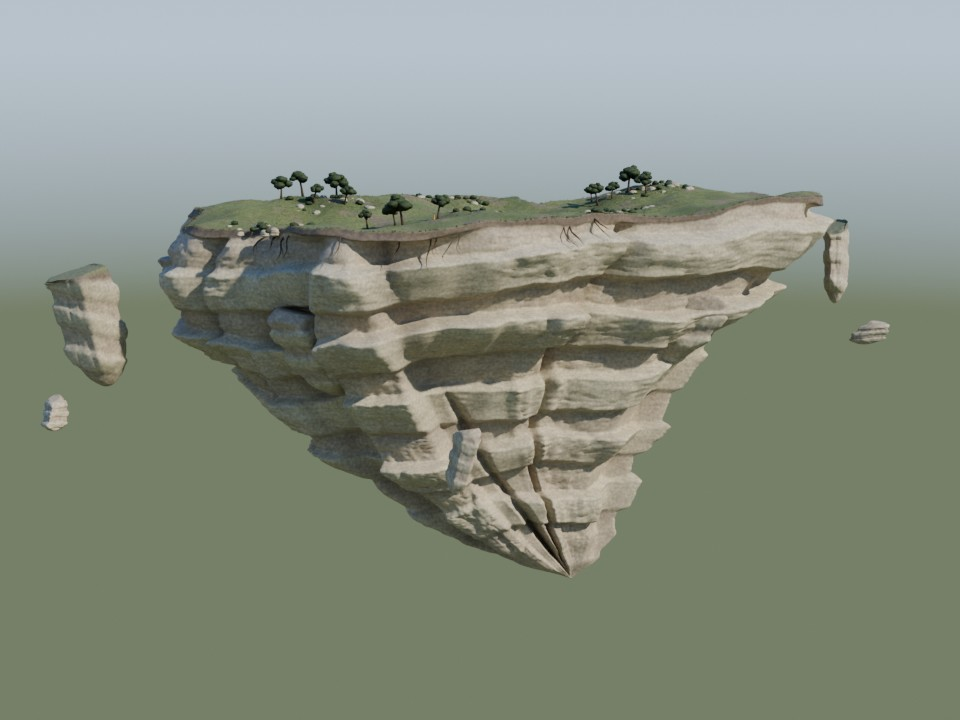
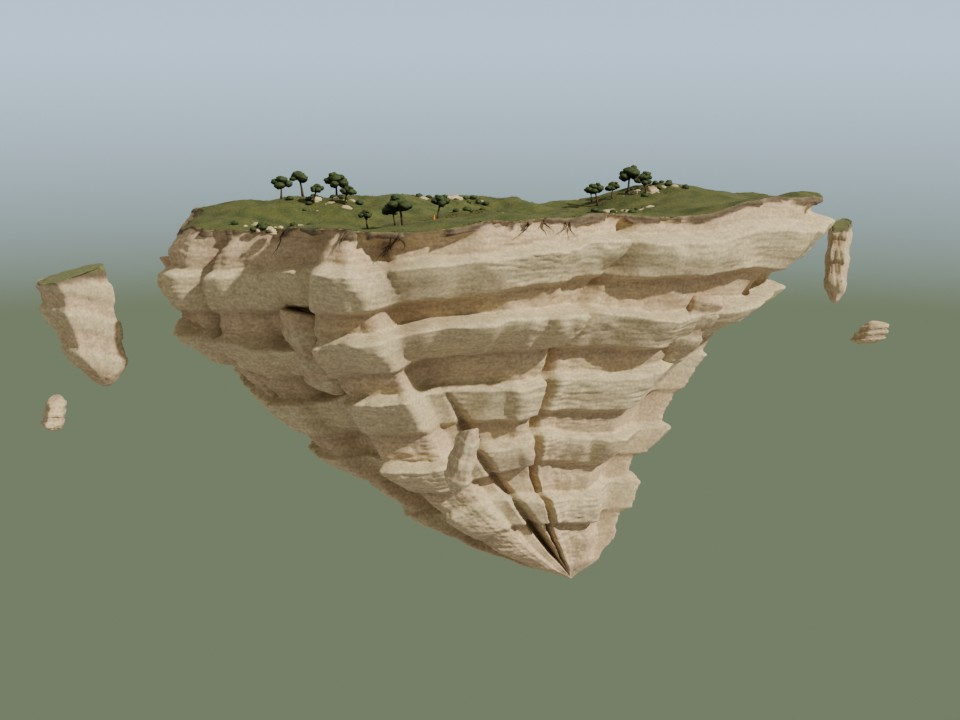
Refine island turf, exposed roots and limestone lighting

diff --git a/assets/sky/floating_island_a/build.py b/assets/sky/floating_island_a/build.py
@@ -12,6 +12,7 @@ SEED = 86347
 TOP, KEEL = 149, 0
 RX, RY = 125, 77
 N = 448
+FIGURE = (-36, -44)
 
 # Depth, width. The throat retreats under an overhang before the oblique keel.
 PROFILE = (
@@ -158,9 +159,10 @@ def summit(x, y):
 def bed_color(p, lith, cavity, x, y, z):
     patina = n3(x/14, y/13, z/16)
     veins = n3(x/3.7, y/3.7, z/.84)
-    limestone = mix(p["canyon_strata"], p["sandstone"], .22 + .19*patina)
-    dry = mix(limestone, p["canyon_chalk"], smooth(.36 + lith + .20*patina))
-    shaded = mix(p["canyon_strata"], p["soil"], .51)
+    limestone = mix(p["canyon_strata"], p["sandstone"], .47 + .13*patina)
+    ivory = mix(p["canyon_chalk"], p["path_sand"], .20)
+    dry = mix(limestone, ivory, smooth(.39 + lith + .16*patina))
+    shaded = mix(limestone, p["soil"], .51)
     tone = mix(dry, shaded, min(.74, cavity*.70))
     return tuple(v * (1 + .24 * veins) for v in tone)
 
@@ -175,6 +177,22 @@ def profile(t):
 
 def lip(q):
     return smooth((q+.07)/.22) * (1-.23*smooth((q-.35)/.56)) * (1-smooth((q-.91)/.18))
+
+
+def turf_scarps(ex, ey, a):
+    variations = .68*n3(ex/12, ey/9, 43) + .37*n3(ex/5, ey/5, 110) + .19*math.sin(17*a+.4)
+    gaps = smooth((n3(ex/4.5, ey/4, 38) - .085)*4.8 + .18*n3(ex/2.1, ey/2.1, 32))
+    depth = (.52 + 2.48*smooth(.49+variations)) * (1-.94*gaps)
+    return depth/(TOP-KEEL), gaps
+
+
+def weathering(x, y, z):
+    section = smooth(.5 + 1.15*n3(x/48, y/43, z/40))
+    broad = n3(x/17+.13*z, y/14, z/20+748)
+    torn = n3(x/3.9-156, y/2.8+.05*z, z/7.9)
+    grains = n3(x/1.4, y/1.4-72, z/1.9)
+    flakes = n3(x/3.3+78, y/5.3, z/1.07)
+    return .96*broad + (.05+1.07*section)*torn + (.04+.42*section)*grains + .61*(1-section)*flakes
 
 
 def face(p, edge, a, t):
@@ -206,19 +224,13 @@ def face(p, edge, a, t):
     for bearing, width, depth, lean in FAULTS:
         fault = angle_delta(a, bearing + .65*lean*t + .012*math.sin(21*t+bearing))
         groove += depth * max(0, 1-abs(fault)/(1.6*width)) * (.58+.42*smooth(.5+n3(t*5, bearing, 26)))
-    cells = voronoi_seam(x/16, y/15, z/34)
-    rifts = 1 - smooth(cells/.20)
-    wet = cavity + rifts*.18 + groove/19
+    wet = cavity + groove/19
     spur = 0
     for direction, level, weight, spread in ((-.62, .43, 9.8, .34), (1.34, .57, 15, .44),
                                              (2.86, .35, 11, .41), (-2.38, .72, 12, .48)):
         az = angle_delta(a, direction - .43*t)
         spur += .62*weight * math.exp(-(az/spread)**2 - ((t-level)/.188)**2)
-    displacement = ridge + spur - groove - .88*rifts
-    displacement += 1.4*n3(x/14, y/14, z/27) + .51*n3(x/5.5, y/5.5, z/6.8)
-    chips = voronoi_seam(x/4.4, y/4.1, z/5.9)
-    broken = smooth((.13-chips)/.13) * smooth(.62 + 1.6*n3(x/8, y/8, z/9))
-    displacement += .39*n3(x/2.1, y/2.1, z/2.1) + .16*n3(x*.89, y*.89, z*.89) - .53*broken
+    displacement = ridge + spur - groove + weathering(x, y, z)
     for bearing, reach, anchor, slope in ((-2.5, .24, .23, -.23), (-1.79, .24, .36, .19),
                                          (-.80, .27, .63, -.12), (.48, .20, .29, .34),
                                          (1.54, .26, .41, -.17), (2.52, .19, .67, .30)):
@@ -230,26 +242,30 @@ def face(p, edge, a, t):
             plane = u*(bx*ca+by*sa) + ridge - 6.9*math.exp(-((t-anchor)/.36)**2)
             cut = ((x-tx)*ca+(y-ty)*sa-plane)/math.cos(delta)
             displacement -= max(0, displacement+cut)*smooth((reach-abs(delta))/.070)
-    soil_depth = (.014 + .005*math.sin(8*a-.3) + .005*n3(ex/17, ey/17, 7))
-    soil = 1-smooth((t-soil_depth)/.005)
-    displacement = displacement*(1-soil) + (.7 + 2.1*n3(ex/18, ey/18, t*70))*soil
-    x += math.cos(a)*displacement*ramp
-    y += math.sin(a)*displacement*ramp
-    rock = bed_color(p, lith, wet+.25*broken, x, y, z)
-    earth = mix(p["bark"], p["soil"], .59 + .36*n3(x/2.6, y/2.6, z*1.8))
+    soil_depth, gaps = turf_scarps(ex, ey, a)
+    soil = (1-smooth((t-soil_depth)/.0035)) * (1-gaps)
+    tor = .51 + 1.03*n3(ex/8, ey/6, 884) + .72*n3(ex/1.8, ey/1.8, t*114)
+    tor += .37*n3(ex/1.01, ey/1.09, 10+t*160)
+    top = smooth(t/.004)
+    displacement = displacement*ramp*(1-.78*soil) + tor*top*soil
+    displacement -= 1.84*gaps*top*(1-smooth((t-.015)/.018))
+    x += math.cos(a)*displacement
+    y += math.sin(a)*displacement
+    rock = bed_color(p, lith, wet, x, y, z)
+    crumbs = n3(x/1.7, y/1.6, z*1.45) + .35*n3(x*1.9, y*1.7, z*2.7)
+    earth = mix(p["bark"], p["soil"], .68 + .52*crumbs)
+    earth = mix(earth, p["grass_green"], .43*soil*(1-smooth(t/max(.003, .45*soil_depth))))
     return (x, y, z), mix(rock, earth, soil)
 
 
 def turf_color(p, x, y, r):
-    scatter = n3(x/10, y/11, 26)
-    slope = n3(x/26, y/23, 17)
-    grain = n3(x/2.6, y/2.6, 11)
-    bare = .64*smooth((scatter + .27*slope + .27*grain - .14)*3.1)
-    bare += .23*smooth((r-.93)/.07)
-    grit = mix(p["soil"], p["canyon_strata"], .22)
-    turf = mix(p["moss"], p["grass_green"], smooth(.80 + .69*slope))
-    turf = mix(turf, p["grass_dry"], .27*smooth(.48 + .9*scatter))
-    return tuple(v*(1.93+.34*grain) for v in mix(turf, grit, bare))
+    patch = n3(x/6, y/7, 26)
+    grain = n3(x/1.6, y/1.6, 11)
+    turf = mix(p["moss"], p["grass_green"], smooth(.61 + .53*patch))
+    straw = .37*smooth(.31 + .43*patch + .56*grain)
+    turf = mix(turf, p["grass_dry"], straw)
+    dust = .25*smooth((r-.965)/.035) * smooth((grain + .15)*2.4)
+    return tuple(v*(1.71+.18*grain) for v in mix(turf, p["soil"], dust))
 
 
 def massif(p):
@@ -257,10 +273,11 @@ def massif(p):
     angles = [i*math.tau/N for i in range(N)]
     edges = [footprint(a) for a in angles]
     # Keep the same crown perimeter on both surfaces so the contact never opens.
-    rings = 328
+    depths = [i*.027/12 for i in range(12)] + [.027+.973*i/324 for i in range(324)]
+    rings = len(depths)
     for i in range(rings):
         for j, a in enumerate(angles):
-            pos, color = face(p, edges[j], a, i/rings)
+            pos, color = face(p, edges[j], a, depths[i])
             rock.verts.append(pos)
             rock.colors.append(color)
         if i:
@@ -284,8 +301,8 @@ def massif(p):
             grass.colors.append(turf_color(p, x, y, r))
             k = (j+1) % N
             grass.faces.append((row+j, row+k, row+k-N, row+j-N) if i > 1 else (0, row+j, row+k))
-    rock_mat = tint("canyon_layered", "lithology", .80, "Driftward | limestone, seams and mineral patina")
-    turf_mat = tint("grass_ground", "meadow", .45, "Driftward | turf, exposed soil and dry hummocks")
+    rock_mat = tint("canyon_layered", "lithology", .89, "Driftward | limestone, seams and mineral patina")
+    turf_mat = tint("grass_ground", "meadow", .60, "Driftward | olive turf and dry hummocks")
     # One watertight core, with a separate material on the summit faces.
     offset = len(rock.verts)
     rock.verts.extend(grass.verts[:-N])
@@ -417,6 +434,76 @@ def blade(mesh, x, y, z, h, w, az, outward):
     mesh.faces.extend(((i, i+1, i+3, i+2), (i+2, i+3, i+4)))
 
 
+def turf_tufts(blades):
+    rng = random.Random(SEED + 39)
+    fx, fy = FIGURE
+    for ox, oy, sx, sy, count in ((-4, -4, 3, 2.6, 68), (5, -1, 3, 2, 76), (1, 5, 3, 3, 53),
+                                   (-7, 8, 2.4, 4, 64), (11, 8, 4, 2.8, 70), (13, -8, 6, 3, 85)):
+        for _ in range(count):
+            u, v = rng.gauss(0, .47), rng.gauss(0, .47)
+            if u*u+v*v > 1:
+                continue
+            x, y = fx+ox+sx*u, fy+oy+sy*v
+            if math.hypot(x-fx, y-fy) < 1.1:
+                continue
+            tuft_height = rng.uniform(.24, .83)
+            for _ in range(rng.randint(7, 13)):
+                tx, ty = x+rng.uniform(-.16,.16), y+rng.uniform(-.16,.16)
+                az = rng.uniform(0, math.tau)
+                h = tuft_height*rng.uniform(.49, 1.24)
+                blade(blades, tx, ty, summit(tx, ty)-.06, h, rng.uniform(.036,.095), az,
+                      (h*(.48+.63*math.cos(az)), h*(.19+.58*math.sin(az))))
+    for i in range(440):
+        a = math.tau*(i+rng.uniform(-.5, .5))/440
+        ex, ey = footprint(a)
+        depth, gap = turf_scarps(ex, ey, a)
+        if gap > .76 or rng.random() > .38+.51*smooth(.5+n3(ex/5, ey/7, 33)):
+            continue
+        for _ in range(rng.randint(7, 18)):
+            az = a+rng.uniform(-.012, .012)
+            edge = footprint(az)
+            rad = rng.uniform(.986,.998)
+            x, y = rad*edge[0], rad*edge[1]
+            overhang = rng.uniform(.38, 2.2)*(.63+22*depth)
+            h = rng.uniform(-.44,.79)
+            blade(blades, x, y, summit(x,y)-.08, h, rng.uniform(.032,.099),
+                  az+rng.uniform(1.10, 1.95), (overhang*math.cos(az), overhang*math.sin(az)))
+
+
+def root_system(p, wood):
+    rng = random.Random(SEED + 830)
+    for bearing, width, span in ((.30, .19, 10), (-.33, .15, 14), (1.83, .11, 12),
+                                 (-2.63, .14, 10), (-2.06, .19, 14), (-1.59, .14, 9)):
+        for _ in range(rng.randint(3, 6)):
+            a = bearing + rng.uniform(-width, width)
+            edge = footprint(a)
+            thickness, erosion = turf_scarps(*edge, a)
+            if erosion > .62:
+                continue
+            start = max(.002, thickness*rng.uniform(.14, .48))
+            length = rng.uniform(.43, 1)*span
+            radius = rng.uniform(.23, .58)
+            bend, phase = rng.uniform(-3.1, 2.9), rng.uniform(0, math.tau)
+            path, radii = [], []
+            for i in range(13):
+                t = i/12
+                az = a + .025*math.sin(3.8*t+phase)*t + .007*bend*t
+                x, y, z = face(p, footprint(az), az, start+length*t/(TOP-KEEL))[0]
+                drift = -.65 + 1.46*smooth(t/.21) + .64*math.sin(5.2*t+phase)*t + 2.05*t*t
+                path.append(Vector((x+math.cos(az)*drift, y+math.sin(az)*drift, z)))
+                radii.append(radius*(1-.96*t)**1.44*(1+.15*math.sin(11*t+phase)*t))
+            wood_tube(wood, path, radii)
+            tx, ty = -math.sin(a), math.cos(a)
+            for i, side in ((rng.randint(2,4), -1), (rng.randint(5,7), 1)):
+                origin = path[i]
+                drift = Vector((side*tx, side*ty, rng.uniform(-.26,.26)))
+                length = rng.uniform(1.1, 2.9)
+                twig = [origin, path[i+1]+.18*length*drift, path[i+2]+.55*length*drift,
+                        path[i+3]+length*drift, path[i+4]+1.27*length*drift]
+                width = radii[i]*rng.uniform(.43,.65)
+                wood_tube(wood, twig, [width*k for k in (1, .71, .42, .22, .036)], 7)
+
+
 def cover(p, rng, stone_mat):
     wood, leaves, floaters, rubble, blades = Mesh(), Mesh(), Mesh(), Mesh(), Mesh()
     for x, y, h in ((-73, 22, 8), (-63, 27, 10), (-63, 13, 7), (-51, 22, 9),
@@ -430,9 +517,13 @@ def cover(p, rng, stone_mat):
             a, b = x+rng.uniform(-sx, sx), y+rng.uniform(-sy, sy)
             s = rng.uniform(.62, 1.75)
             canopy(leaves, p, Vector((a, b, summit(a, b)+.35*s)), s, rng)
-        for _ in range(17):
-            a, b = x+rng.uniform(-sx, sx), y+rng.uniform(-sy, sy)
+        for j in range(17):
+            u, v = rng.uniform(-1, 1), rng.uniform(-1, 1)
+            phase = .19*x + j%3*2.37
+            a = x+sx*(.49*math.cos(phase)+.41*u+.11*v*v)
+            b = y+sy*(.50*math.sin(phase)+.34*v-.13*u*u)
             r = rng.uniform(.30, 2.3)**1.25
+            r *= 1.52 if j in (3, 12) else .77 if j%4 else 1.04
             outcrop(rubble, p, (a, b, summit(a, b)-.21*r), (r, r*.73, r*.68),
                     rng, 24, 16, rng.uniform(0, math.tau), -.24, rng.uniform(-.3, .3))
         for _ in range(430):
@@ -446,18 +537,7 @@ def cover(p, rng, stone_mat):
                 phase = rng.uniform(0, math.tau)
                 blade(blades, x0, y0, z, h, w, phase, (.48*h, .08*h))
 
-    for i in range(740):
-        a = i*math.tau/740 + rng.uniform(-.008, .008)
-        ex, ey = footprint(a)
-        if rng.random() > .35 + .64*smooth(.57 + n3(ex/7, ey/7, 12)):
-            continue
-        for _ in range(rng.randint(5, 12)):
-            r = rng.uniform(.988, .998)
-            x, y = r*ex+rng.uniform(-.35, .35), r*ey+rng.uniform(-.35, .35)
-            h = rng.uniform(.21, .89)
-            extension = rng.uniform(.22, 1.22)
-            blade(blades, x, y, summit(x, y)-.12, h, rng.uniform(.032, .10),
-                  rng.uniform(0, math.tau), (extension*math.cos(a), extension*math.sin(a)))
+    turf_tufts(blades)
 
     # Several coherent slips cling to the cliff; the detached pieces share its bedding.
     for a, depth, sx, sy, sz in ((-.83, .34, 15, 9, 17), (.20, .33, 12, 10, 12),
@@ -477,31 +557,7 @@ def cover(p, rng, stone_mat):
     ):
         outcrop(floaters, p, centre, dims, rng, 80, 65, yaw, taper, tilt, cleavage, turf=dims[0]>12)
 
-    for bearing, width, length in ((.30, .17, 11), (-.33, .13, 12), (1.83, .11, 12),
-                                   (-2.58, .14, 10), (-2.03, .19, 13), (-1.56, .14, 9)):
-        for _ in range(rng.randint(4, 7)):
-            a = bearing + rng.uniform(-width, width)
-            depth = rng.uniform(.006, .013)
-            start_xyz, _ = face(p, footprint(a), a, depth)
-            length_i = rng.uniform(.36, 1.0)*length
-            radius = rng.uniform(.21, .44)
-            path = []
-            for i in range(10):
-                t = i/9
-                x, y, z = start_xyz
-                cliff, _ = face(p, footprint(a), a, depth + length_i/149*t)
-                wall = (cliff[0]-x)*math.cos(a) + (cliff[1]-y)*math.sin(a)
-                slack = 1.3*math.sin(t*2.8)*math.sin(a*13) + 4.2*t*t
-                drift = wall*(1-.55*t) + slack - 1.2 + 2.7*smooth(t/.36)
-                x += math.cos(a)*drift + 1.6*t*math.sin(a*6+5*t)
-                y += math.sin(a)*drift + 1.3*t*math.cos(a*4+4*t)
-                path.append(Vector((x, y, z-length_i*t)))
-            wood_tube(wood, path, [radius*(1-.97*i/9)**.79 for i in range(10)])
-            if rng.random() < .65:
-                parent = path[4]
-                twig = [parent, parent.lerp(path[7], .5)+Vector((.62, .22, -.2)),
-                        path[8]+Vector((1.87, .58, -.5))]
-                wood_tube(wood, twig, [radius*.52, radius*.23, radius*.036], 6)
+    root_system(p, wood)
 
     wood.object("Summit trunks and exposed roots", vrmat.get("tree_bark"))
     leaves.object("Wind-shaped canopies and brush", tint("foliage_leaf", "leaf_tone", .82,
@@ -517,8 +573,9 @@ def build():
     cover(p, random.Random(SEED), stone_mat)
     scene = bpy.context.scene
     scene["vr_review_floating"] = True
-    ex, ey = -36, -44
+    scene["vr_review_neutral_sky"] = True
+    ex, ey = FIGURE
     scene["vr_review_figure"] = (ex, ey, summit(ex, ey)-.03)
     scene["vr_review_turn"] = (0, 0, 89, 247, 12, 530)
-    scene["vr_closeup_upper"] = (-41, -51, 146, -112, 28, 104)
+    scene["vr_closeup_upper"] = (-39, -56, 146, -112, 31, 91)
     scene["vr_closeup_base"] = (8, -5, 58, -118, -5, 170)

diff --git a/tools/blender/render_sheet.py b/tools/blender/render_sheet.py
@@ -60,7 +60,15 @@ def studio():
     nt.links.new(coord.outputs["Generated"], sep.inputs["Vector"])
     nt.links.new(sep.outputs["Z"], remap.inputs["Value"])
     nt.links.new(remap.outputs["Result"], ramp.inputs["Fac"])
-    nt.links.new(ramp.outputs["Color"], bg.inputs["Color"])
+    sky = ramp.outputs["Color"]
+    if scene.get("vr_review_neutral_sky"):
+        rays = nt.nodes.new("ShaderNodeLightPath")
+        illumination = nt.nodes.new("ShaderNodeMixRGB")
+        illumination.inputs[1].default_value = (.53, .51, .46, 1)
+        nt.links.new(rays.outputs["Is Camera Ray"], illumination.inputs[0])
+        nt.links.new(sky, illumination.inputs[2])
+        sky = illumination.outputs["Color"]
+    nt.links.new(sky, bg.inputs["Color"])
     bg.inputs["Strength"].default_value = 0.9
     scene.world = world
 
